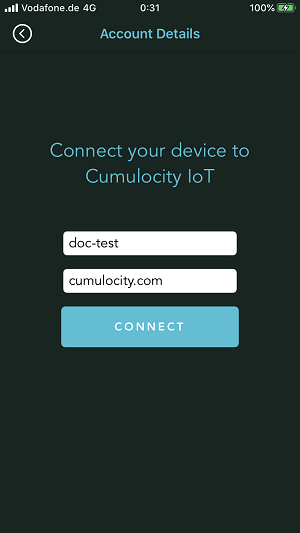
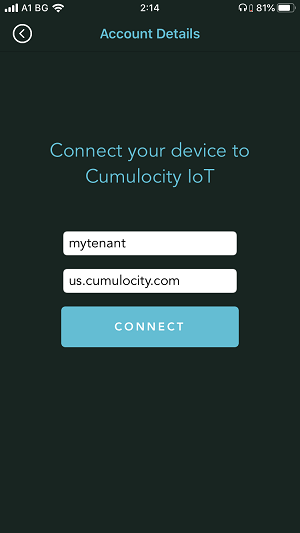
Text refactoring and a better screenshot

diff --git a/content/users-guide/optional-services-bundle/android-cloud-sensor-app.md b/content/users-guide/optional-services-bundle/android-cloud-sensor-app.md
@@ -51,7 +51,7 @@ Moreover it will be added to the group “Phones” (which will be created if no
 ##### Registering with username and password
 
 1. On the start screen of the **Cumulocity IoT Sensor App**, press **Connect to Cumulocity**, to connect your device to Cumulocity.
-2. In the **Account details** page of the **Cumulocity IoT Sensor App**, provide the Cumulocity tenant and instance. These can be seen in the Cumulocity URL from the browser address bar. For example in the URL "mytenant.us.cumulocity.com" the tenant is "mytenant" and the instance is "us.cumulocity.com". Press **Connect**.
+2. In the **Account details** page of the **Cumulocity IoT Sensor App**, provide the Cumulocity tenant and instance. These can be seen in the Cumulocity URL from the browser address bar. For example the screenshot below shows the tenant and instance for a URL "mytenant.us.cumulocity.com". Press **Connect**.
 <br><br>![Account details](/guides/images/users-guide/csa/csa-ios-accountdetails-connect.png)
 
 3. Press **Login with Software AG Cloud** or enter your username and password and press **Login**. 
